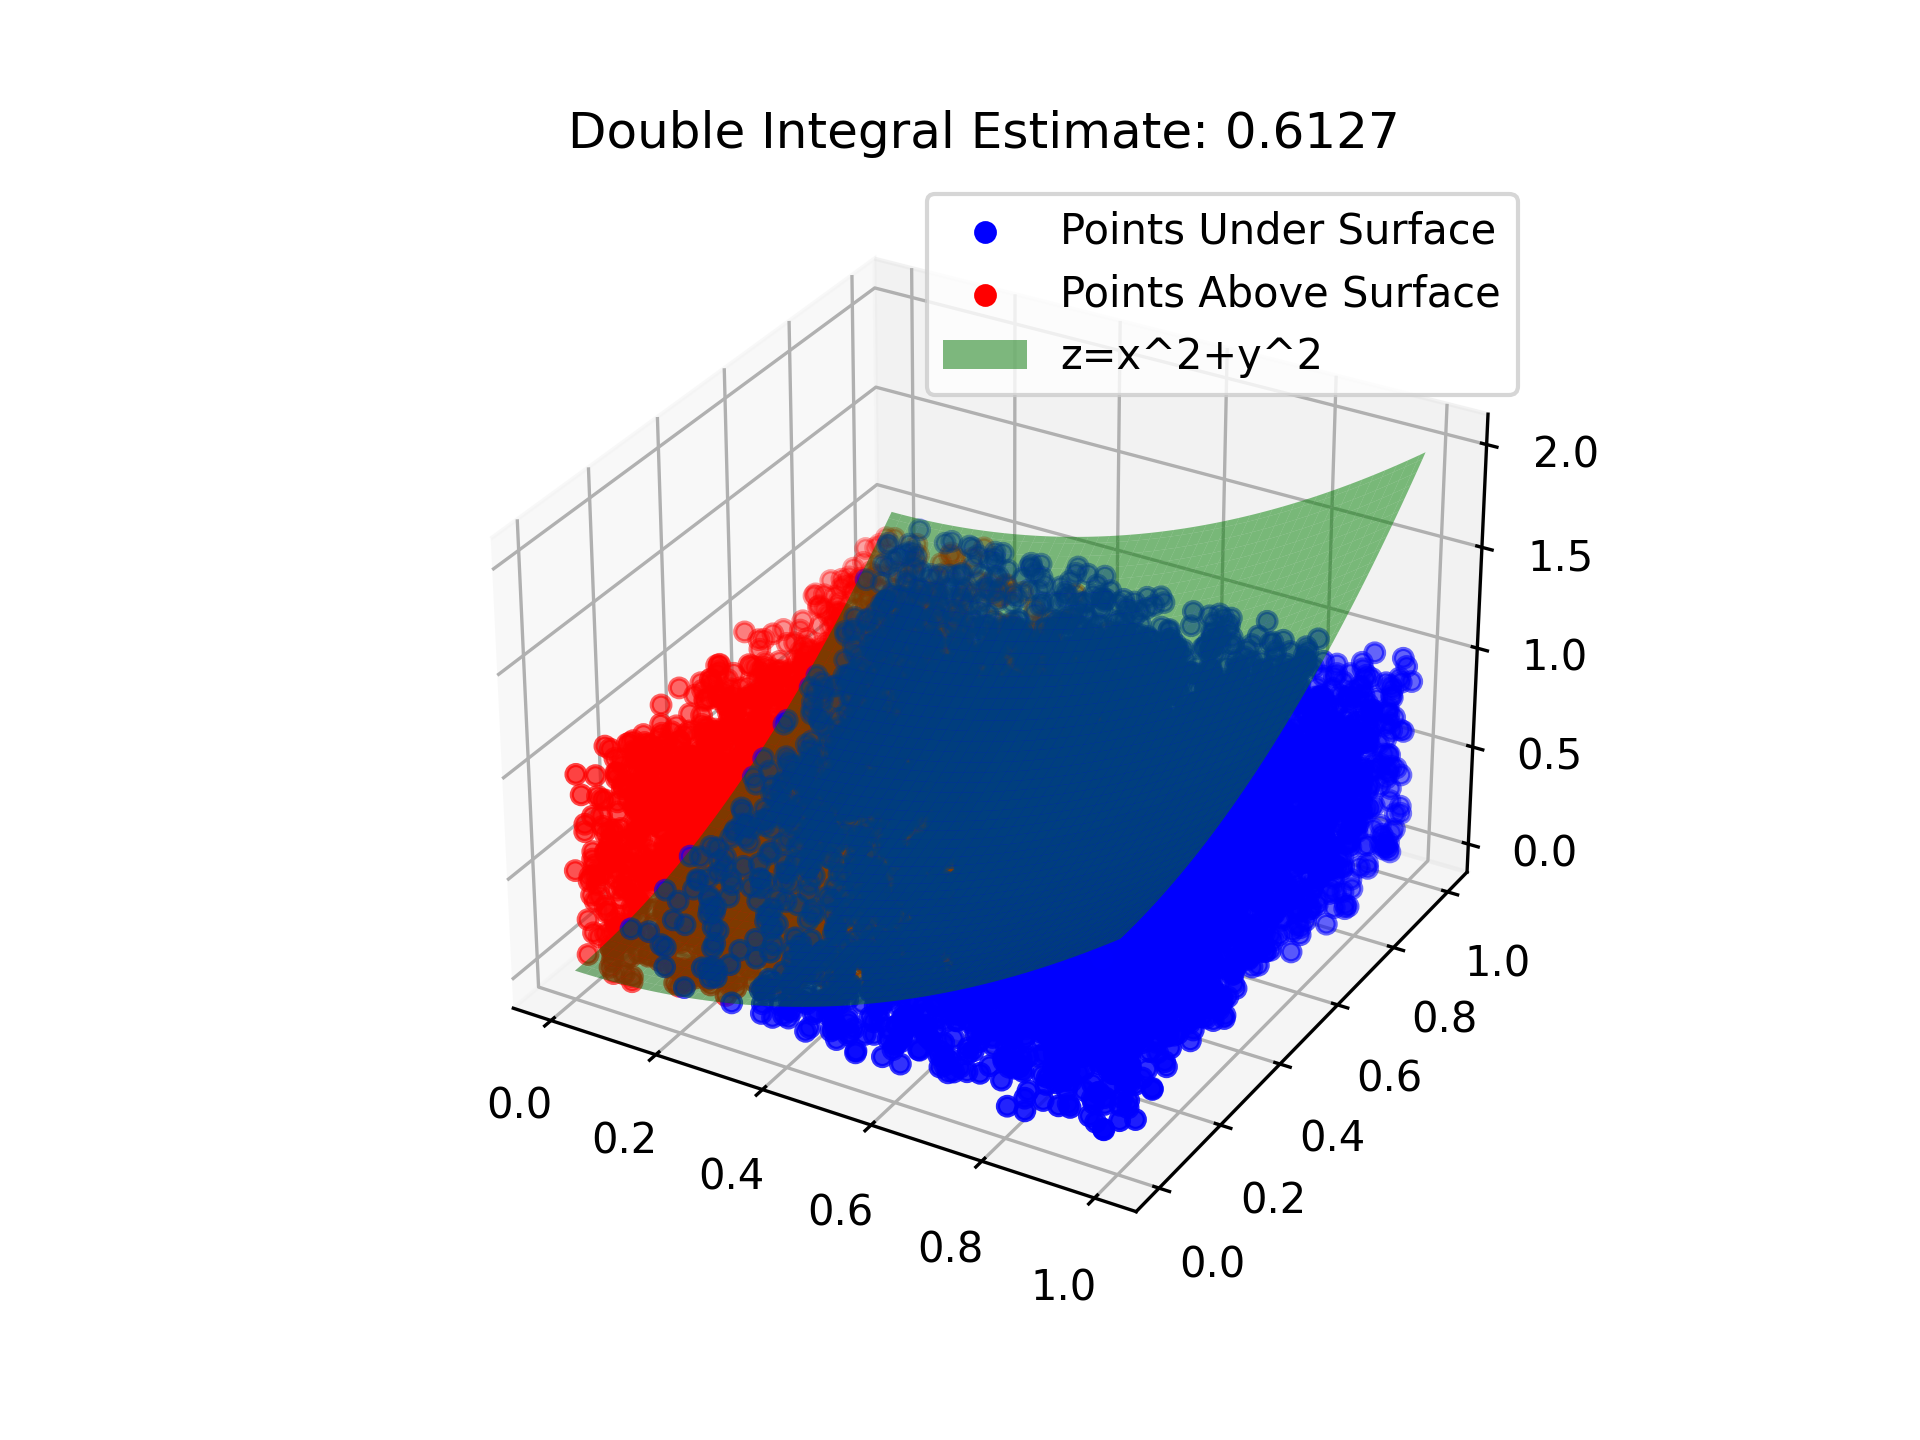
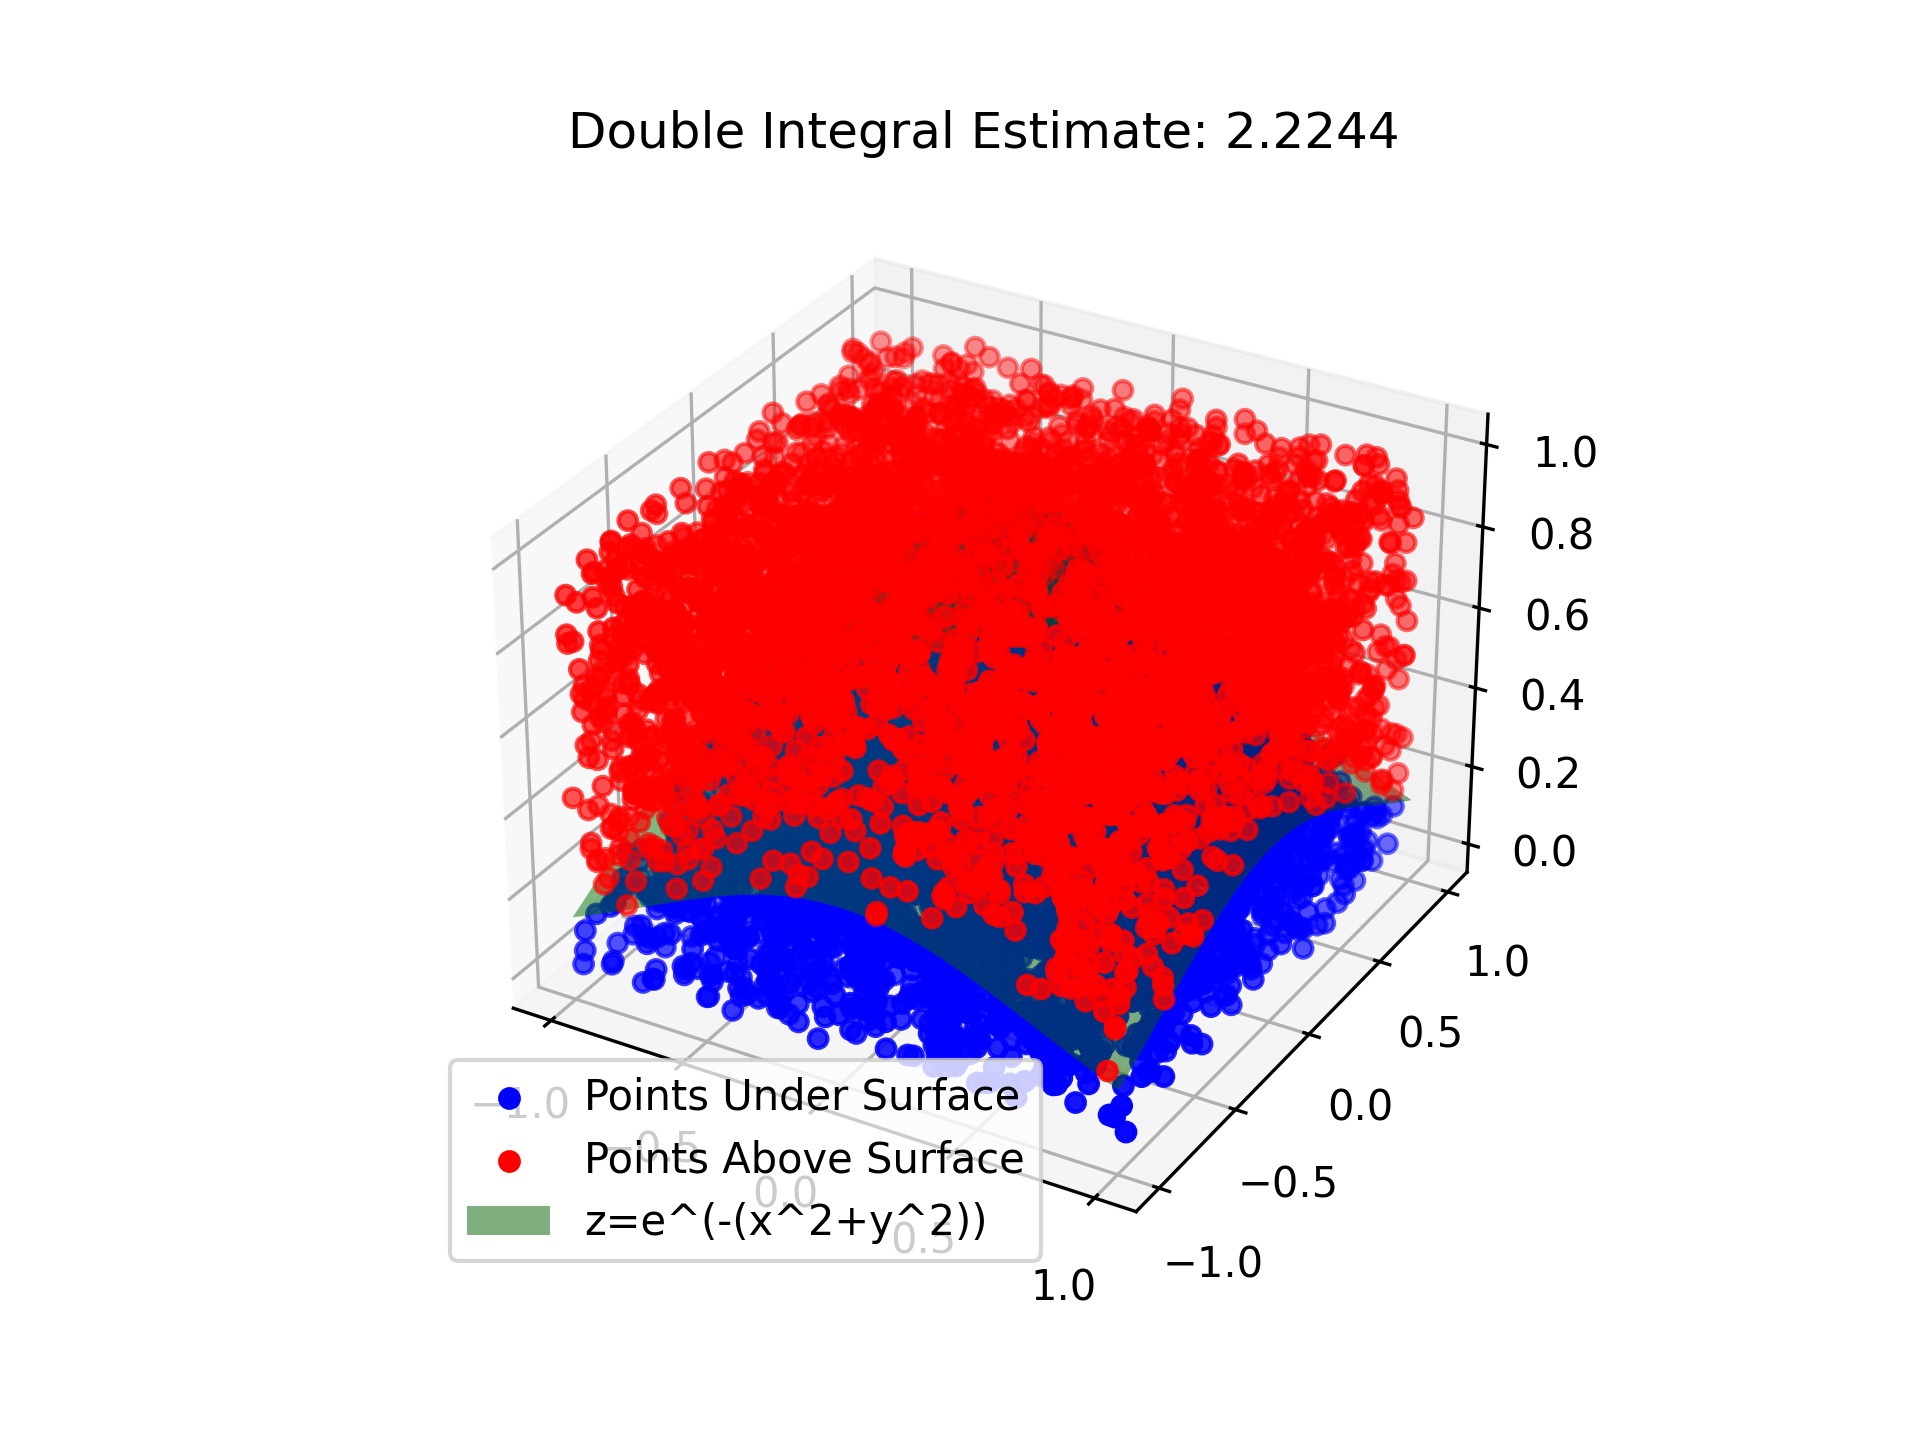
2D guassian

diff --git a/monte_carlo/twodimgaussian_integral.py b/monte_carlo/twodimgaussian_integral.py
@@ -1,17 +1,15 @@
-"""
-Author: Vadan Khan
-Title: Monte Carlo 2D Integral
+"""Author: Vadan Khan 
+Title: Monte Carlo Guassian 2D Integral
 
 This code generates random points in the unit cube (0, 0, 0) to (1, 1, 1), and counts how many fall 
-    under the surface z = x^2 + y^2. The ratio of points under the surface to the total number of 
-    points is an estimate of the double integral of z = x^2 + y^2 over the square region from (0, 0)
-    to (1, 1). The code also plots the points and the surface for visualization. The estimated 
-    double integral is printed at the end.
+    under the surface z = e(-(x2 + y^2)). The ratio of points under the surface to the total number
+    of points is an estimate of the double integral of z = e(-(x2 + y^2)) over the square region 
+    from (-1, -1) to (1, 1). The code also plots the points and the surface for visualization. The 
+    estimated double integral with n samples is printed at the end.
 
-NB we have used an insuitable range of points here for visualisation
+NB we have used an unsuitable range of points here for visualization
 
-To edit the numper of points generated, edit NUMPNTS global variable
-"""
+To edit the number of points generated, edit NUMPNTS global variable"""
 
 import numpy as np
 import matplotlib.pyplot as plt
@@ -29,16 +27,16 @@ def monte_carlo_double_integral(num_samples):
     points_above_surface = []
 
     for _ in range(num_samples):
-        x = np.random.uniform(0, 1)
-        y = np.random.uniform(0, 1)
+        x = np.random.uniform(-1, 1)
+        y = np.random.uniform(-1, 1)
         z = np.random.uniform(0, 1)
-        if z <= x**2 + y**2:
+        if z <= np.exp(-(x**2 + y**2)):
             count += 1
             points_under_surface.append((x, y, z))
         else:
             points_above_surface.append((x, y, z))
 
-    integral_estimate = count / num_samples
+    integral_estimate = 4 * count / num_samples  # Multiply by 4 because the region is 2x2
 
     # Plot the points
     fig = plt.figure()
@@ -49,10 +47,10 @@ def monte_carlo_double_integral(num_samples):
                label='Points Above Surface')
 
     # Draw the surface
-    x = y = np.linspace(0, 1, 100)
+    x = y = np.linspace(-1, 1, 100)
     X, Y = np.meshgrid(x, y)
-    Z = X**2 + Y**2
-    ax.plot_surface(X, Y, Z, color='g', alpha=0.5, label='z=x^2+y^2')
+    Z = np.exp(-(X**2 + Y**2))
+    ax.plot_surface(X, Y, Z, color='g', alpha=0.5, label='z=e^(-(x^2+y^2))')
 
     # Add a legend and title
     ax.legend()
@@ -65,6 +63,6 @@ def monte_carlo_double_integral(num_samples):
 
 
 if __name__ == "__main__":
-    # Estimate double integral with n million samples
+    # Estimate double integral with n samples
     estimated_double_integral = monte_carlo_double_integral(NUMPNTS)
     print(f"Estimated value of double integral: {estimated_double_integral}")

diff --git a/monte_carlo/pi.py b/monte_carlo/pi.py
@@ -10,8 +10,6 @@ In this code, we randomly generate points in a 2x2 square and count how many fal
 To edit the numper of points generated, edit NUMPNTS global variable
 """
 
-
-import numpy as np
 import random
 import matplotlib.pyplot as plt
 from pathlib import Path

diff --git a/monte_carlo/basic_integral.py b/monte_carlo/basic_integral.py
@@ -12,7 +12,6 @@ To edit the numper of points generated, edit NUMPNTS global variable
 
 
 import numpy as np
-import random
 import matplotlib.pyplot as plt
 from pathlib import Path
 
